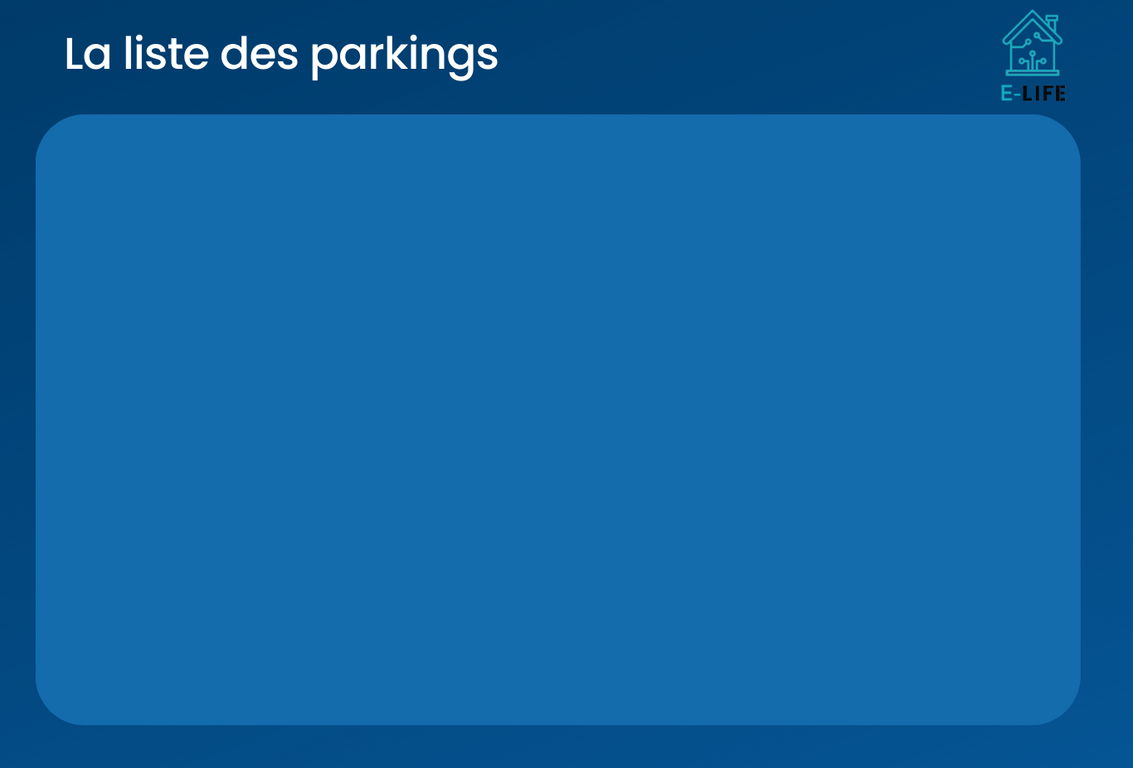
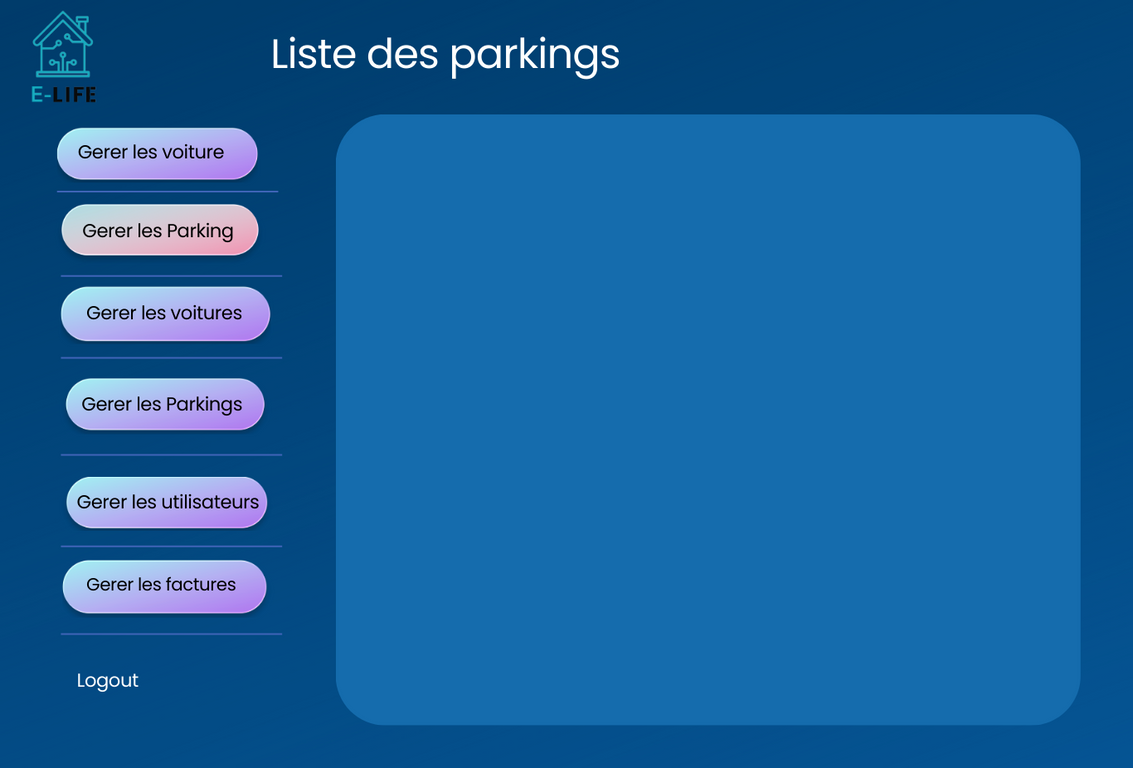
interface terminee

Changed region(s): [[0.0309, 0.0, 0.556, 0.9688], [0.865, 0.0, 0.9576, 0.125]]

diff --git a/src/main/java/controllers/AjouterVoiture.java b/src/main/java/controllers/AjouterVoiture.java
@@ -39,12 +39,14 @@ public class AjouterVoiture {
     private AfficherVoitureAdmin afficherVoitureAdmin;
 
     public void setSelectedParking(Parking parking) {
+           System.out.println(parking.getCapacite());
         this.selectedParking = parking;
     }
 
     public void setAfficherVoitureAdmin(AfficherVoitureAdmin afficherVoitureAdmin) {
         this.afficherVoitureAdmin = afficherVoitureAdmin;
     }
+
 
     @FXML
     private void handleAjouterButton(ActionEvent event) {
@@ -63,6 +65,19 @@ public class AjouterVoiture {
             return;
         }
 
+        // Afficher la capacité actuelle du parking
+        System.out.println("Capacité du parking avant ajout : " + selectedParking.getNombreActuelles() + "/" + selectedParking.getCapacite());
+
+        // Vérification de la capacité du parking
+        if (selectedParking.getNombreActuelles() >= selectedParking.getCapacite()) {
+            afficherMessageErreur("Le parking est plein. Impossible d'ajouter plus de voitures.");
+            ajouterButton.setDisable(false); // Réactiver le bouton d'ajout
+            return;
+        }
+
+        // Ajouter cette instruction de débogage pour afficher la capacité du parking sélectionné
+        System.out.println("Capacité du parking sélectionné : " + selectedParking.getCapacite());
+
         Voiture voiture = new Voiture(selectedParking.getIdParking(), marque, modele, couleur, matricule, selectedParking);
 
         try {
@@ -72,22 +87,22 @@ public class AjouterVoiture {
             if (idVoitureAjoutee != -1) {
                 // Mettre à jour le nombre actuel de voitures dans le parking
                 selectedParking.setNombreActuelles(selectedParking.getNombreActuelles() + 1);
-                ServiceParking serviceParking = new ServiceParking();
-                serviceParking.modifier(selectedParking);
-                supprimerButton.setDisable(false);
-                this.idVoitureAjoutee = idVoitureAjoutee;
                 afficherMessageSucces("Voiture ajoutée avec succès!");
             } else {
-                afficherMessageErreur("Impossible d'ajouter la voiture.");
+                // Traitement en cas d'échec de l'ajout de la voiture
             }
         } catch (SQLException e) {
             e.printStackTrace();
-        }
-        finally {
+        } finally {
             // Réactiver le bouton d'ajout après le processus d'ajout
             ajouterButton.setDisable(false);
         }
+
+        // Afficher la capacité mise à jour du parking après l'ajout de la voiture
+        System.out.println("Capacité du parking après ajout : " + selectedParking.getNombreActuelles() + "/" + selectedParking.getCapacite());
     }
+
+
 
     @FXML
     private void handleSupprimerButton(ActionEvent event) {

diff --git a/src/main/java/controllers/AfficherParking.java b/src/main/java/controllers/AfficherParking.java
@@ -25,6 +25,10 @@ public class AfficherParking {
     @FXML
     private Button boutonAjouter;
 
+    @FXML
+    private Button boutonGererVoitures;
+
+
     private ObservableList<Parking> parkingsObservableList;
     private ServiceParking serviceParking;
 
@@ -39,9 +43,11 @@ public class AfficherParking {
             parkingsObservableList.addAll(serviceParking.getAll());
             listeParkings.setItems(parkingsObservableList);
             // Initialiser le nombre actuel de voitures à 0 pour chaque parking
-            for (Parking parking : parkingsObservableList) {
+            /*for (Parking parking : parkingsObservableList) {
                 parking.setNombreActuelles(0);
-            }
+
+
+            }*/
         } catch (SQLException throwables) {
             throwables.printStackTrace();
         }
@@ -61,7 +67,9 @@ public class AfficherParking {
             }
         });
 
-        // Autres gestionnaires d'événements...
+        boutonGererVoitures.setOnAction(event -> {
+            ouvrirAffichervoiture();
+        });
 
         // Gestionnaire d'événements pour le double-clic sur un élément de la ListView
         listeParkings.setOnMouseClicked(event -> {
@@ -72,7 +80,22 @@ public class AfficherParking {
                 }
             }
         });
+
     }
+    @FXML
+    void ouvrirAffichervoiture() {
+        try {
+            FXMLLoader loader = new FXMLLoader(getClass().getResource("/AfficherVoitureAdmin.fxml"));
+            Parent root = loader.load();
+            Stage stage = new Stage();
+            stage.setScene(new Scene(root));
+            stage.setTitle("Liste des voitures");
+            stage.show();
+        } catch (IOException e) {
+            e.printStackTrace();
+        }
+    }
+
 
     private void ouvrirDetailsParking(Parking parking) {
         try {

diff --git a/src/main/java/controllers/AfficherVoitureAdmin.java b/src/main/java/controllers/AfficherVoitureAdmin.java
@@ -7,11 +7,13 @@ import javafx.fxml.FXML;
 import javafx.fxml.FXMLLoader;
 import javafx.scene.Parent;
 import javafx.scene.Scene;
+import javafx.scene.control.Button;
 import javafx.scene.control.ListView;
 import javafx.stage.Stage;
 import javafx.scene.input.MouseButton;
 import services.ServiceVoiture;
 
+import javafx.event.ActionEvent;
 import java.io.IOException;
 import java.sql.SQLException;
 
@@ -19,6 +21,8 @@ public class AfficherVoitureAdmin {
 
     @FXML
     private ListView<Voiture> listeVoitures;
+    @FXML
+    private Button boutonGererParking;
 
     private ObservableList<Voiture> voituresObservableList;
     private ServiceVoiture serviceVoiture;
@@ -46,6 +50,7 @@ public class AfficherVoitureAdmin {
         } catch (SQLException throwables) {
             throwables.printStackTrace();
         }
+        boutonGererParking.setOnAction(this::ouvrirAfficherParkingAdmin);
 
         // Gestionnaire d'événements pour le double-clic sur un élément de la ListView
         listeVoitures.setOnMouseClicked(event -> {
@@ -56,6 +61,21 @@ public class AfficherVoitureAdmin {
                 }
             }
         });
+    }
+    @FXML
+     void ouvrirAfficherParkingAdmin(ActionEvent event) {
+        try {
+            FXMLLoader loader = new FXMLLoader(getClass().getResource("/AfficherParking.fxml"));
+            Parent root = loader.load();
+            AfficherParking controller = loader.getController();
+
+            Stage stage = new Stage();
+            stage.setScene(new Scene(root));
+            stage.setTitle("Gérer les parkings");
+            stage.show();
+        } catch (IOException e) {
+            e.printStackTrace();
+        }
     }
 
     private void ouvrirDetailsVoiture(Voiture voiture) {

diff --git a/src/main/java/tests/MainFx.java b/src/main/java/tests/MainFx.java
@@ -10,11 +10,11 @@ public class MainFx extends Application {
     @Override
     public void start(Stage stage) throws Exception {
         // Charger le fichier FXML
-       // Parent root = FXMLLoader.load(getClass().getResource("/AjouterParking.fxml"));
-       Parent root = FXMLLoader.load(getClass().getResource("/AfficherParking.fxml"));
-      // Parent root = FXMLLoader.load(getClass().getResource("/AfficherVoiture.fxml"));
-       //  Parent root = FXMLLoader.load(getClass().getResource("/AjouterVoiture.fxml"));
-        // Parent root = FXMLLoader.load(getClass().getResource("/AfficherVoitureAdmin.fxml"));
+      // Parent root = FXMLLoader.load(getClass().getResource("/AjouterParking.fxml"));
+      // Parent root = FXMLLoader.load(getClass().getResource("/AfficherParking.fxml"));
+        // Parent root = FXMLLoader.load(getClass().getResource("/AfficherVoiture.fxml"));
+      //  Parent root = FXMLLoader.load(getClass().getResource("/AjouterVoiture.fxml"));
+       Parent root = FXMLLoader.load(getClass().getResource("/AfficherVoitureAdmin.fxml"));
         // Parent root = FXMLLoader.load(getClass().getResource("/DetailsParking.fxml"));
 
 

diff --git a/src/main/java/controllers/AjouterParking.java b/src/main/java/controllers/AjouterParking.java
@@ -62,7 +62,7 @@ public class AjouterParking {
         int capacite;
         try {
             capacite = Integer.parseInt(capaciteText);
-            if (capacite <= 0 || capacite > 100) {
+            if (capacite <= 0 || capacite > 5) {
                 afficherMessage("Erreur", "La capacité doit être un entier entre 1 et 100.");
                 return;
             }
@@ -81,7 +81,7 @@ public class AjouterParking {
         int nombreActuelles;
         try {
             nombreActuelles = Integer.parseInt(nombreActuellesText);
-            if (nombreActuelles < 0 || nombreActuelles > 100) {
+            if (nombreActuelles < 0 || nombreActuelles > capacite) {
                 afficherMessage("Erreur", "Le nombre actuel de voitures doit être un entier entre 0 et 100.");
                 return;
             }

diff --git a/src/main/java/controllers/AfficherVoiture.java b/src/main/java/controllers/AfficherVoiture.java
@@ -48,11 +48,6 @@ public class AfficherVoiture {
                 AjouterVoiture controller = loader.getController();
                 controller.setSelectedParking(parking); // Définir le parking sélectionné dans le contrôleur AjouterVoiture
 
-                // Incrémenter le nombre actuel de voitures dans le parking
-                parking.setNombreActuelles(parking.getNombreActuelles() + 1);
-                // Mettre à jour le parking dans la base de données ou dans votre service
-                serviceParking.modifier(parking);
-
                 Stage stage = new Stage();
                 stage.setTitle("Ajouter une voiture");
                 stage.setScene(new Scene(root));
